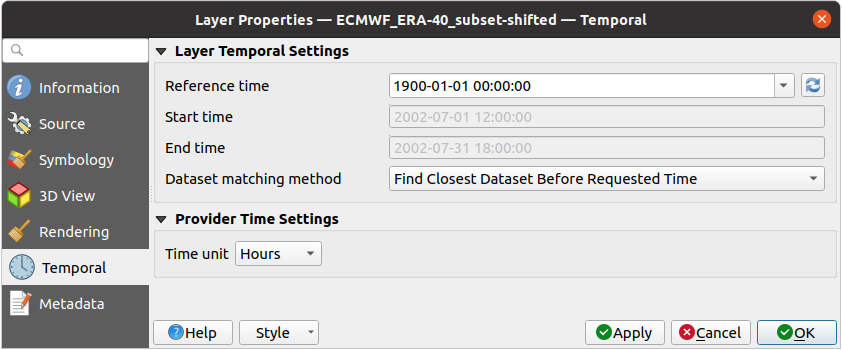
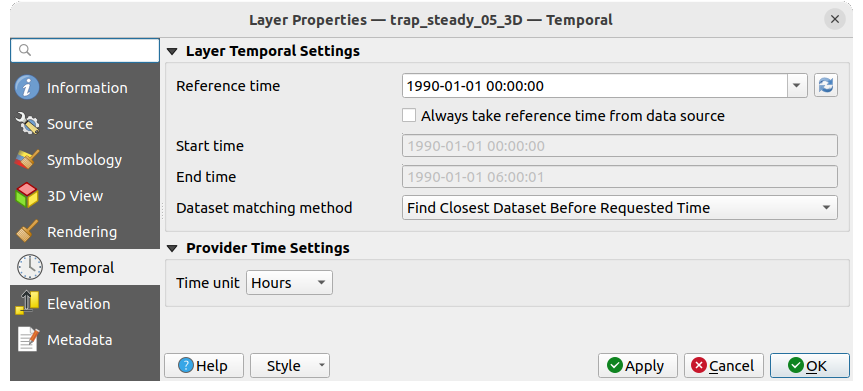
[mesh] Always take reference time from data source

diff --git a/docs/user_manual/working_with_mesh/mesh_properties.rst b/docs/user_manual/working_with_mesh/mesh_properties.rst
@@ -561,16 +561,19 @@ over the map canvas.
 
 * :guilabel:`Reference time` of the dataset group, as an absolute date time.
   By default, QGIS parses the source layer and returns the first valid reference
-  time in the layer's dataset group. If unavailable, the value will be set by
-  the project time range or fall back to the current date.
+  time in the layer's dataset group.
+  If unavailable, the value will be set by the project time range
+  or fall back to the current date.
   The :guilabel:`Start time` and :guilabel:`End time` to  consider
   are then calculated based on the internal timestamp step of the dataset.
 
-  It is possible to set a custom :guilabel:`Reference time` (and then the time
-  range), and revert the changes using the |refresh| :sup:`Reload from provider`
-  button.
-* :guilabel:`Dataset matching method`: determines the dataset to display at the
-  given time. Options are :guilabel:`Find closest dataset before requested time`
+  It is possible to set a custom :guilabel:`Reference time` (and then the time range),
+  and revert the changes using the |refresh| :sup:`Reload from provider` button.
+  With |checkbox| :guilabel:`Always take reference time from data source` checked,
+  you ensure that the time properties are updated from the file
+  each time the layer is reloaded or the project reopened.
+* :guilabel:`Dataset matching method`: determines the dataset to display at the given time.
+  Options are :guilabel:`Find closest dataset before requested time`
   or :guilabel:`Find closest dataset from requested time (after or before)`.
 
 **Provider time settings**
